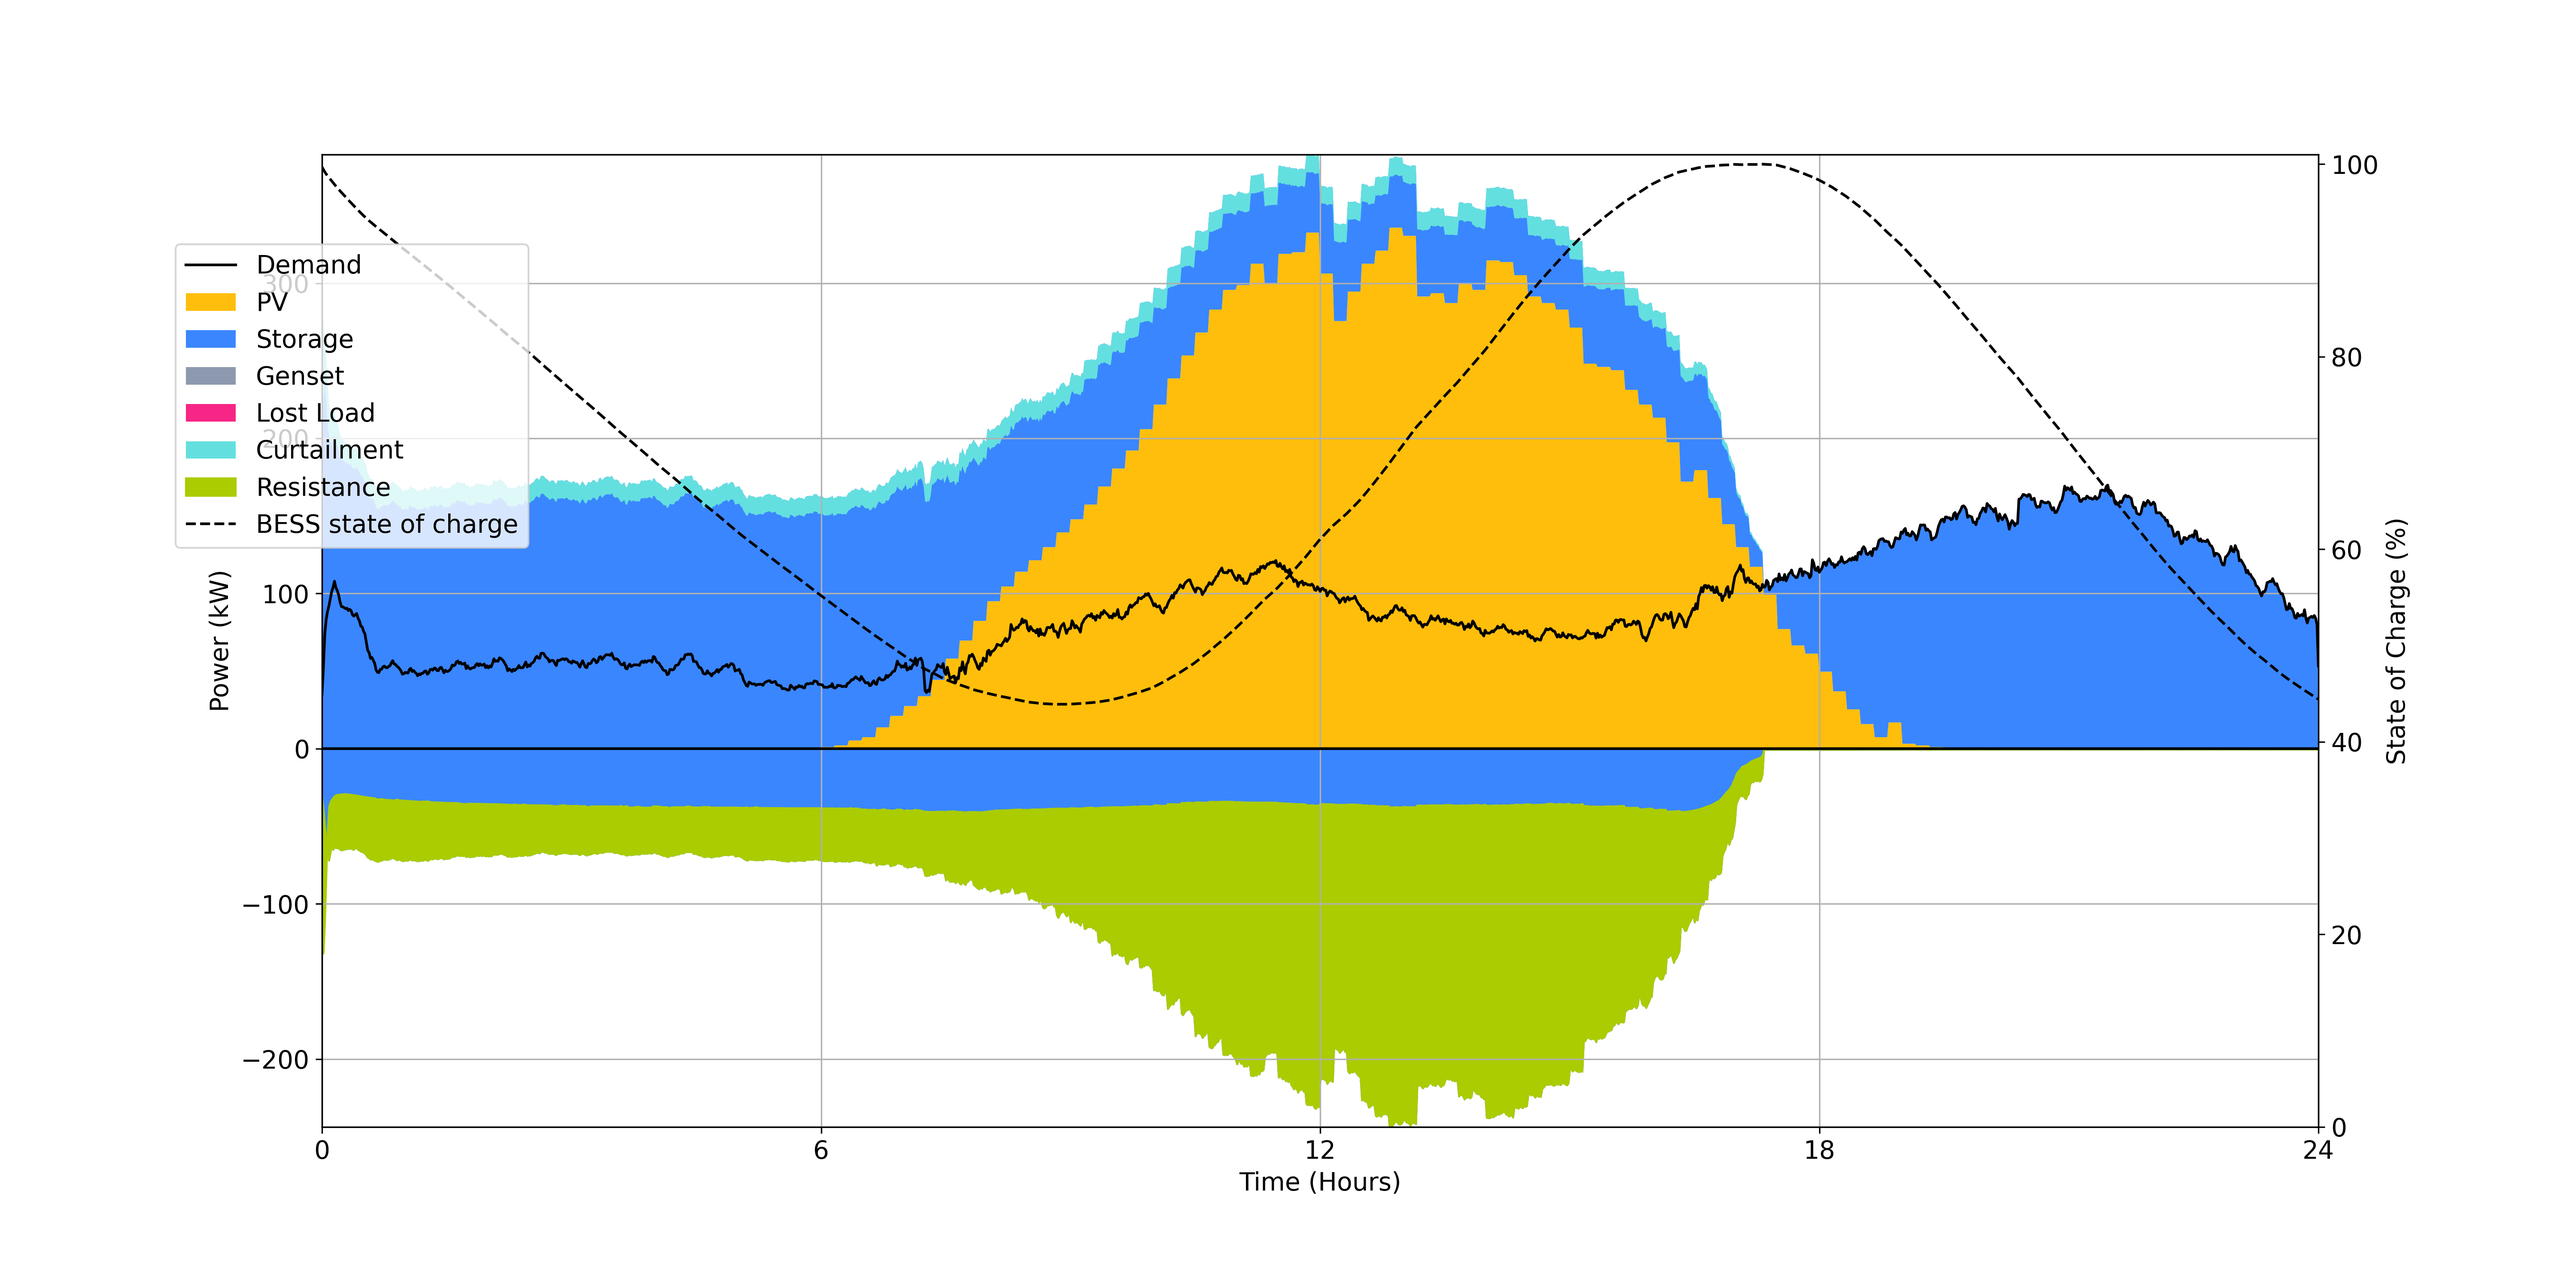
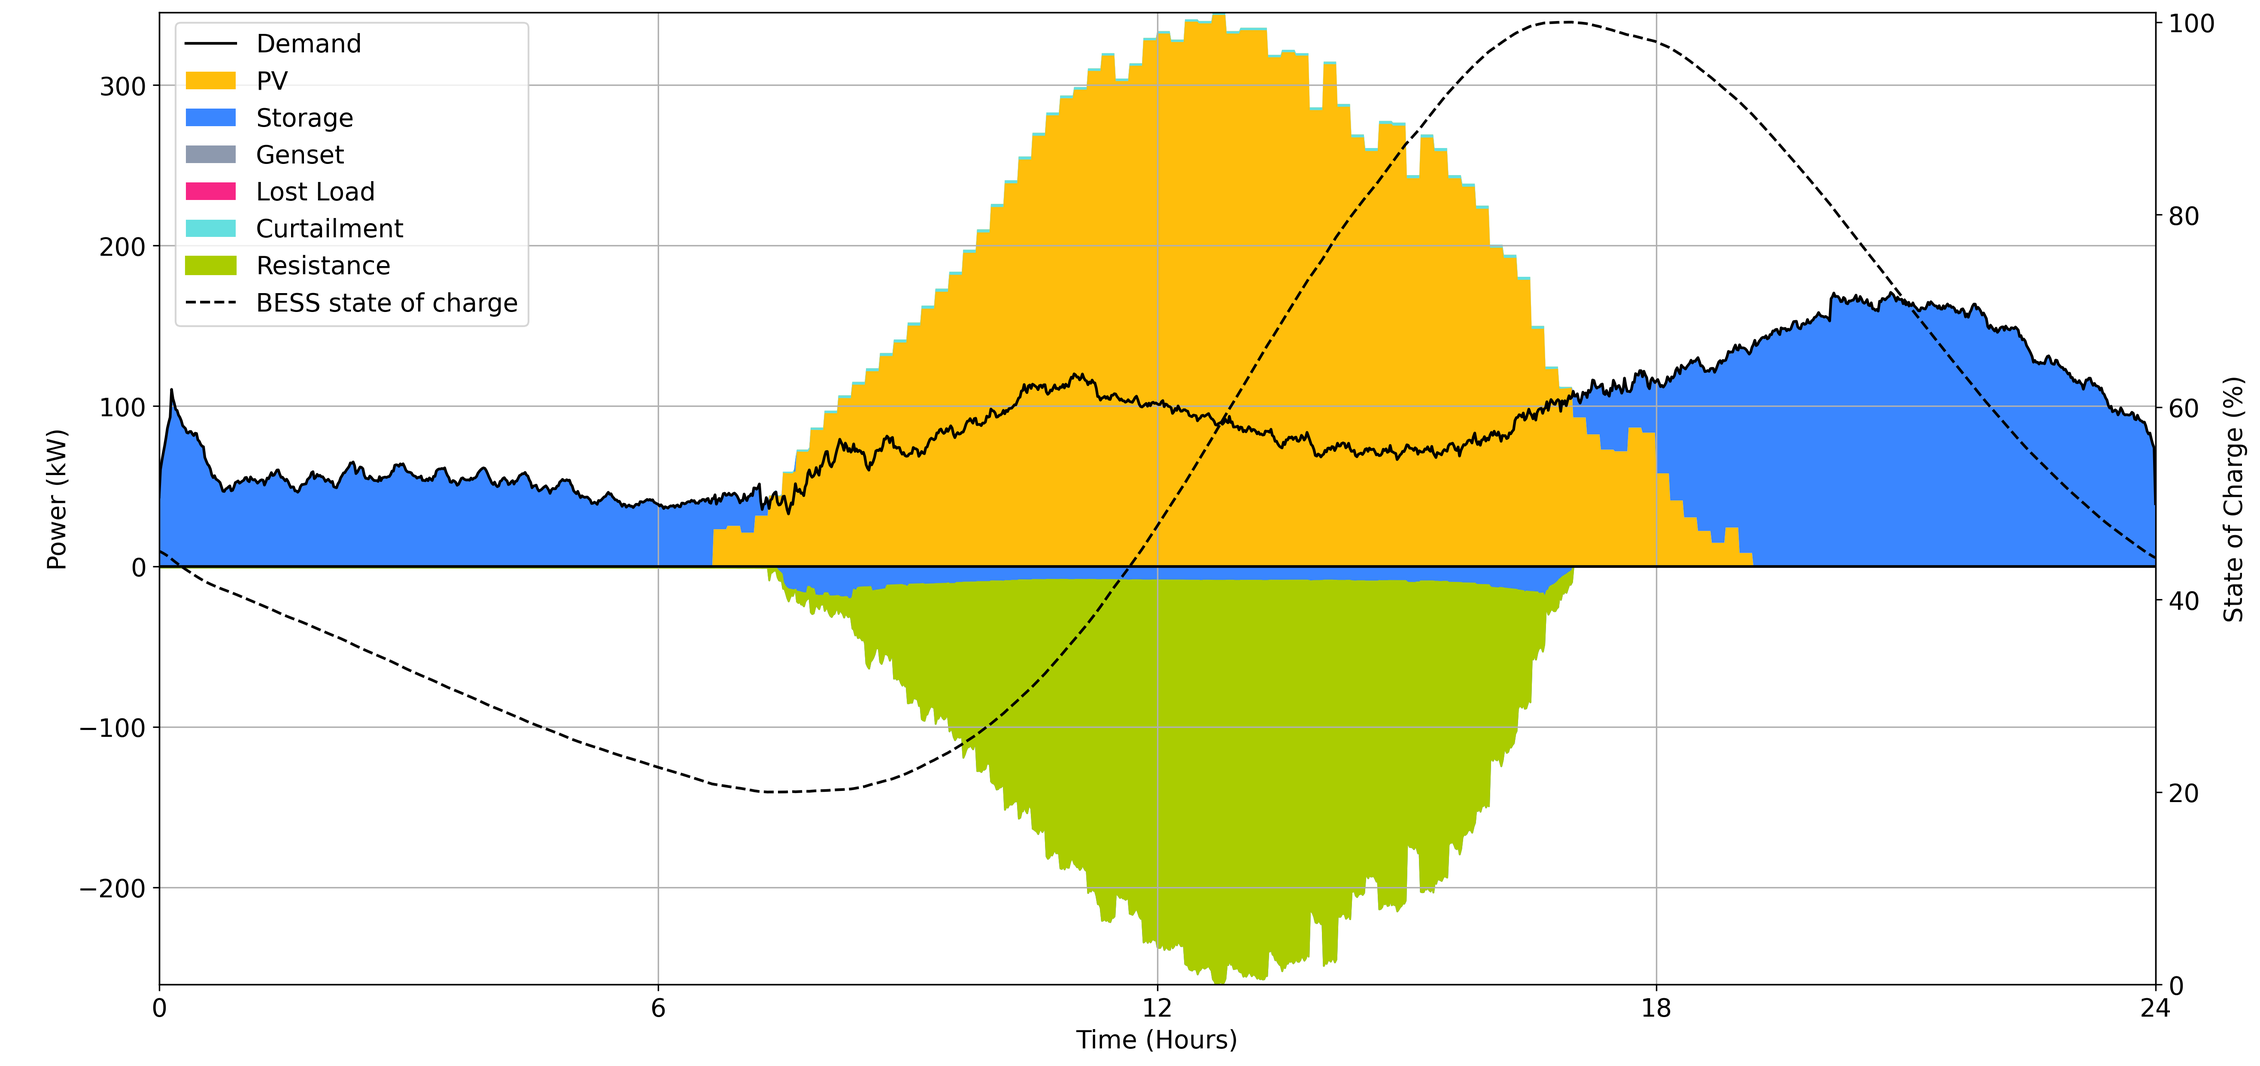
corrections plot d

diff --git a/Scenarios/d_Multi-Energy-System/PlotMode.py b/Scenarios/d_Multi-Energy-System/PlotMode.py
@@ -148,14 +148,24 @@ def ElectricDispatch(nS,PlotScenario,PlotStartDate,PlotEndDate,PlotResolution):
     "Series preparation"
     y_RES         = TimeSeries['EE']['Sc'+str(PlotScenario)].iloc[PlotStartDate:PlotEndDate,4].values
     y_BESS_out    = TimeSeries['EE']['Sc'+str(PlotScenario)].iloc[PlotStartDate:PlotEndDate,5].values
-    y_BESS_in     = 1*TimeSeries['EE']['Sc'+str(PlotScenario)].iloc[PlotStartDate:PlotEndDate,6].values
+    y_BESS_in     = -1*TimeSeries['EE']['Sc'+str(PlotScenario)].iloc[PlotStartDate:PlotEndDate,6].values
     y_Genset      = TimeSeries['EE']['Sc'+str(PlotScenario)].iloc[PlotStartDate:PlotEndDate,7].values
     y_ElResCons   = -1*TimeSeries['EE']['Sc'+str(PlotScenario)].iloc[PlotStartDate:PlotEndDate,3].values
     y_LostLoad    = TimeSeries['EE']['Sc'+str(PlotScenario)].iloc[PlotStartDate:PlotEndDate,1].values
     y_Curtailment = -1*TimeSeries['EE']['Sc'+str(PlotScenario)].iloc[PlotStartDate:PlotEndDate,2].values
     x_Plot = np.arange(len(y_Genset))
+    
+    deltaBESS_pos = y_BESS_out + y_BESS_in
+    deltaBESS_neg = y_BESS_out + y_BESS_in
+    
+    for i in range(deltaBESS_pos.shape[0]):
+        if deltaBESS_pos[i] < 0:   
+            deltaBESS_pos[i] *= 0
+        if deltaBESS_neg[i] > 0:   
+            deltaBESS_neg[i] *= 0
+
     y_Stacked = [y_RES,
-                 y_BESS_out,
+                 deltaBESS_pos,
                  y_Genset,
                  y_LostLoad,
                  y_Curtailment]

diff --git a/Scenarios/d_Multi-Energy-System/Plots.py b/Scenarios/d_Multi-Energy-System/Plots.py
@@ -157,8 +157,18 @@ def ElectricDispatch(instance,TimeSeries):
     y_LostLoad    = TimeSeries['EE']['Sc'+str(PlotScenario)].loc[PlotStartDate:PlotEndDate,'Lost Load'].values
     y_Curtailment = -1*TimeSeries['EE']['Sc'+str(PlotScenario)].loc[PlotStartDate:PlotEndDate,'Curtailment'].values
     x_Plot = np.arange(len(y_Genset))
+
+    deltaBESS_pos = y_BESS_out + y_BESS_in
+    deltaBESS_neg = y_BESS_out + y_BESS_in
+    
+    for i in range(deltaBESS_pos.shape[0]):
+        if deltaBESS_pos[i] < 0:   
+            deltaBESS_pos[i] *= 0
+        if deltaBESS_neg[i] > 0:   
+            deltaBESS_neg[i] *= 0
+
     y_Stacked = [y_RES,
-                 y_BESS_out,
+                 deltaBESS_pos,
                  y_Genset,
                  y_LostLoad,
                  y_Curtailment]

diff --git a/Scenarios/d_Multi-Energy-System/Micro_Energy_System.py b/Scenarios/d_Multi-Energy-System/Micro_Energy_System.py
@@ -15,7 +15,7 @@ Authors:
 import time
 start = time.time()
 
-plotMode = 'Off'
+plotMode = 'On'
 
 
 if plotMode != 'On':
